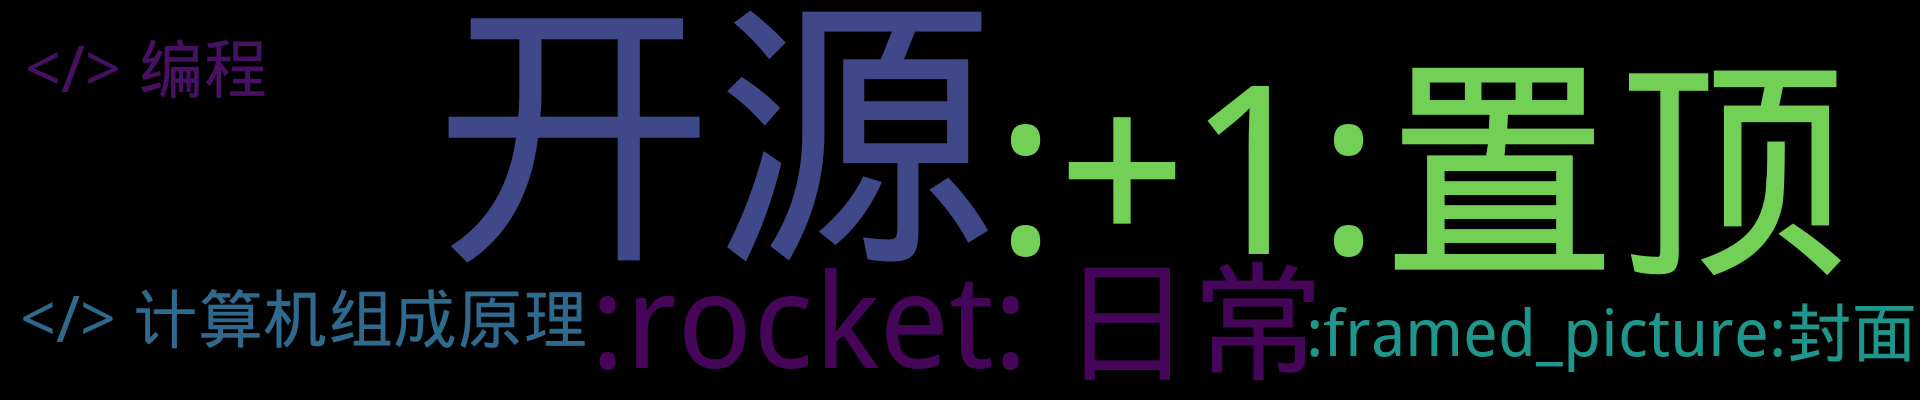
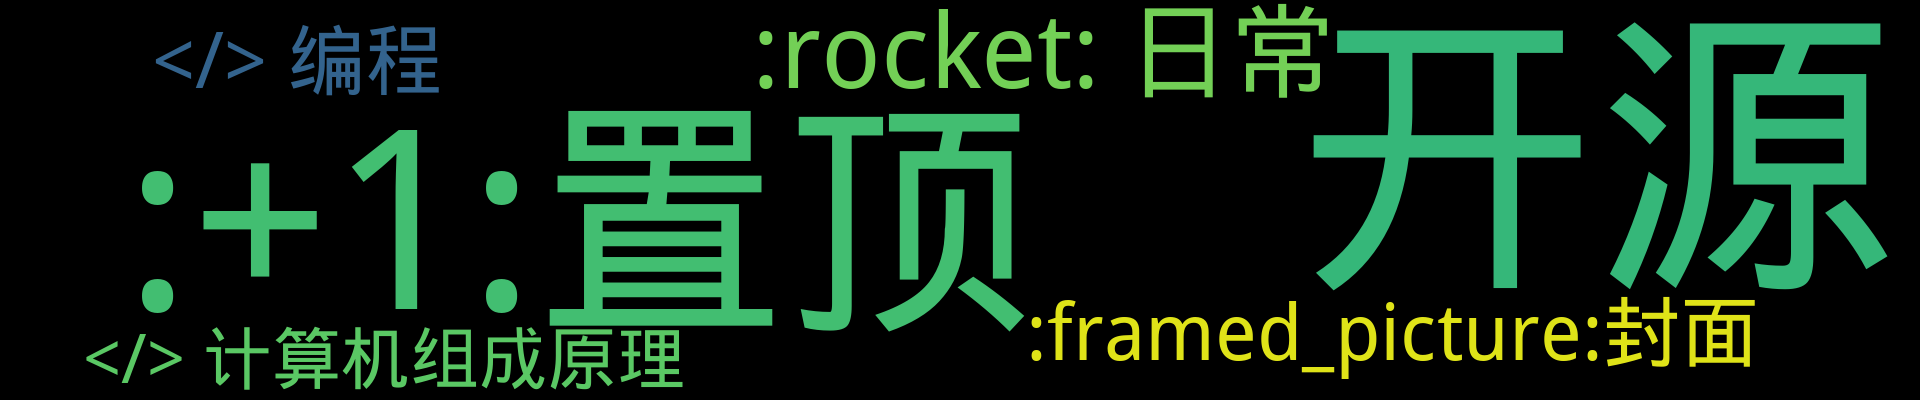
Update from Github Action

diff --git a/README.md b/README.md
@@ -3,15 +3,17 @@
 <p align='center'>
     <img src="https://badgen.net/badge/labels/6"/>
     <img src="https://badgen.net/github/issues/rdp-studio/ghiblog"/>
-    <img src="https://badgen.net/badge/last-commit/2021-05-09 01:07:20"/>
+    <img src="https://badgen.net/badge/last-commit/2021-05-09 02:45:40"/>
     <img src="https://badgen.net/github/forks/rdp-studio/ghiblog"/>
     <img src="https://badgen.net/github/stars/rdp-studio/ghiblog"/>
     <img src="https://badgen.net/github/watchers/rdp-studio/ghiblog"/>
     <img src="https://badgen.net/github/release/rdp-studio/ghiblog"/>
-    <a href="https://github.com/rdp-studio/ghiblog/issues/1"><img src="https://badgen.net/badge/Powerd%20By/ghiblog"/></a>
 </p>
 
 <p align='center'>
+    <!-- DO NOT REMOVE! -->
+    <a href="https://github.com/rdp-studio/ghiblog/issues/1"><img src="https://badgen.net/badge/Powerd%20By/ghiblog"/></a>
+    <!-- DO NOT REMOVE! -->
     <a href="https://github.com/jwenjian/visitor-count-badge">
         <img src="https://visitor-badge.glitch.me/badge?page_id=rdp-studio.ghiblog"/>
     </a>
@@ -95,8 +97,8 @@ Crawling GitHub Trending Pages if you click star or run at actions page.
 
 <details open="open">
     <summary>
-        <img src="assets/wordcloud.png" title="词云, 点击展开详细分类" alt="词云， 点击展开详细分类">
-        <p align="center">:cloud: 词云 :cloud: <sub>点击词云展开详细分类:point_down: </sub></p>
+        <img src="assets/wordcloud.png" title="词云, 点击下方展开详细分类" alt="词云， 点击展开详细分类">
+        <p align="center">:cloud: 词云 :cloud: <sub>点击下方展开详细分类:point_down: </sub></p>
     </summary>
 
 
